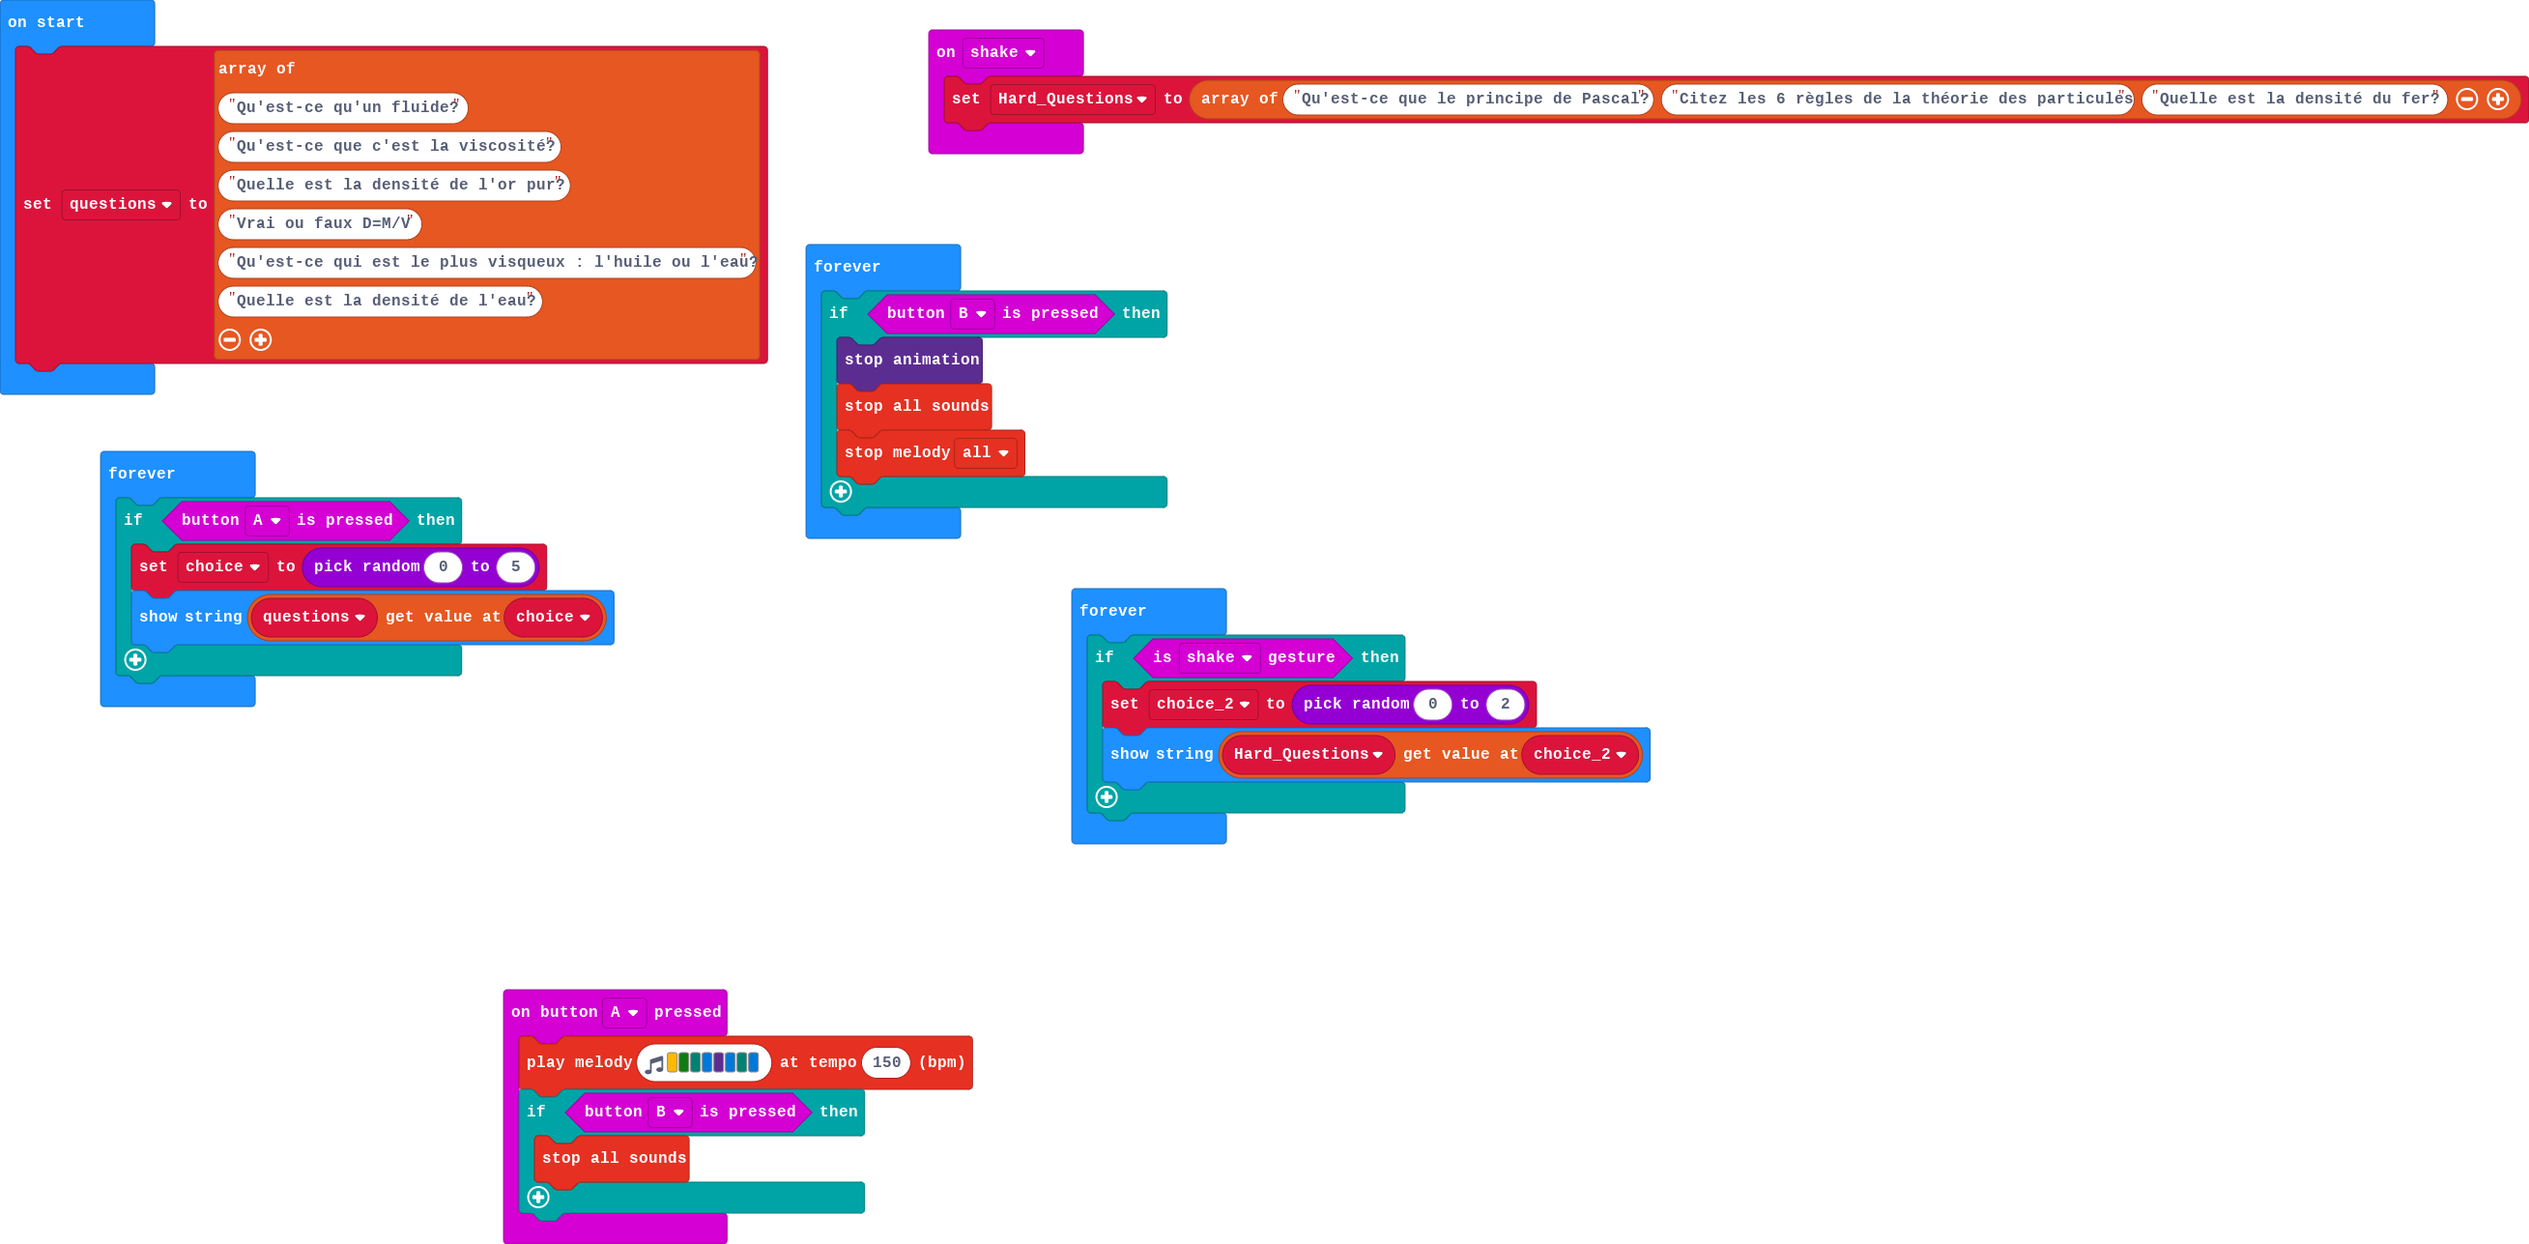
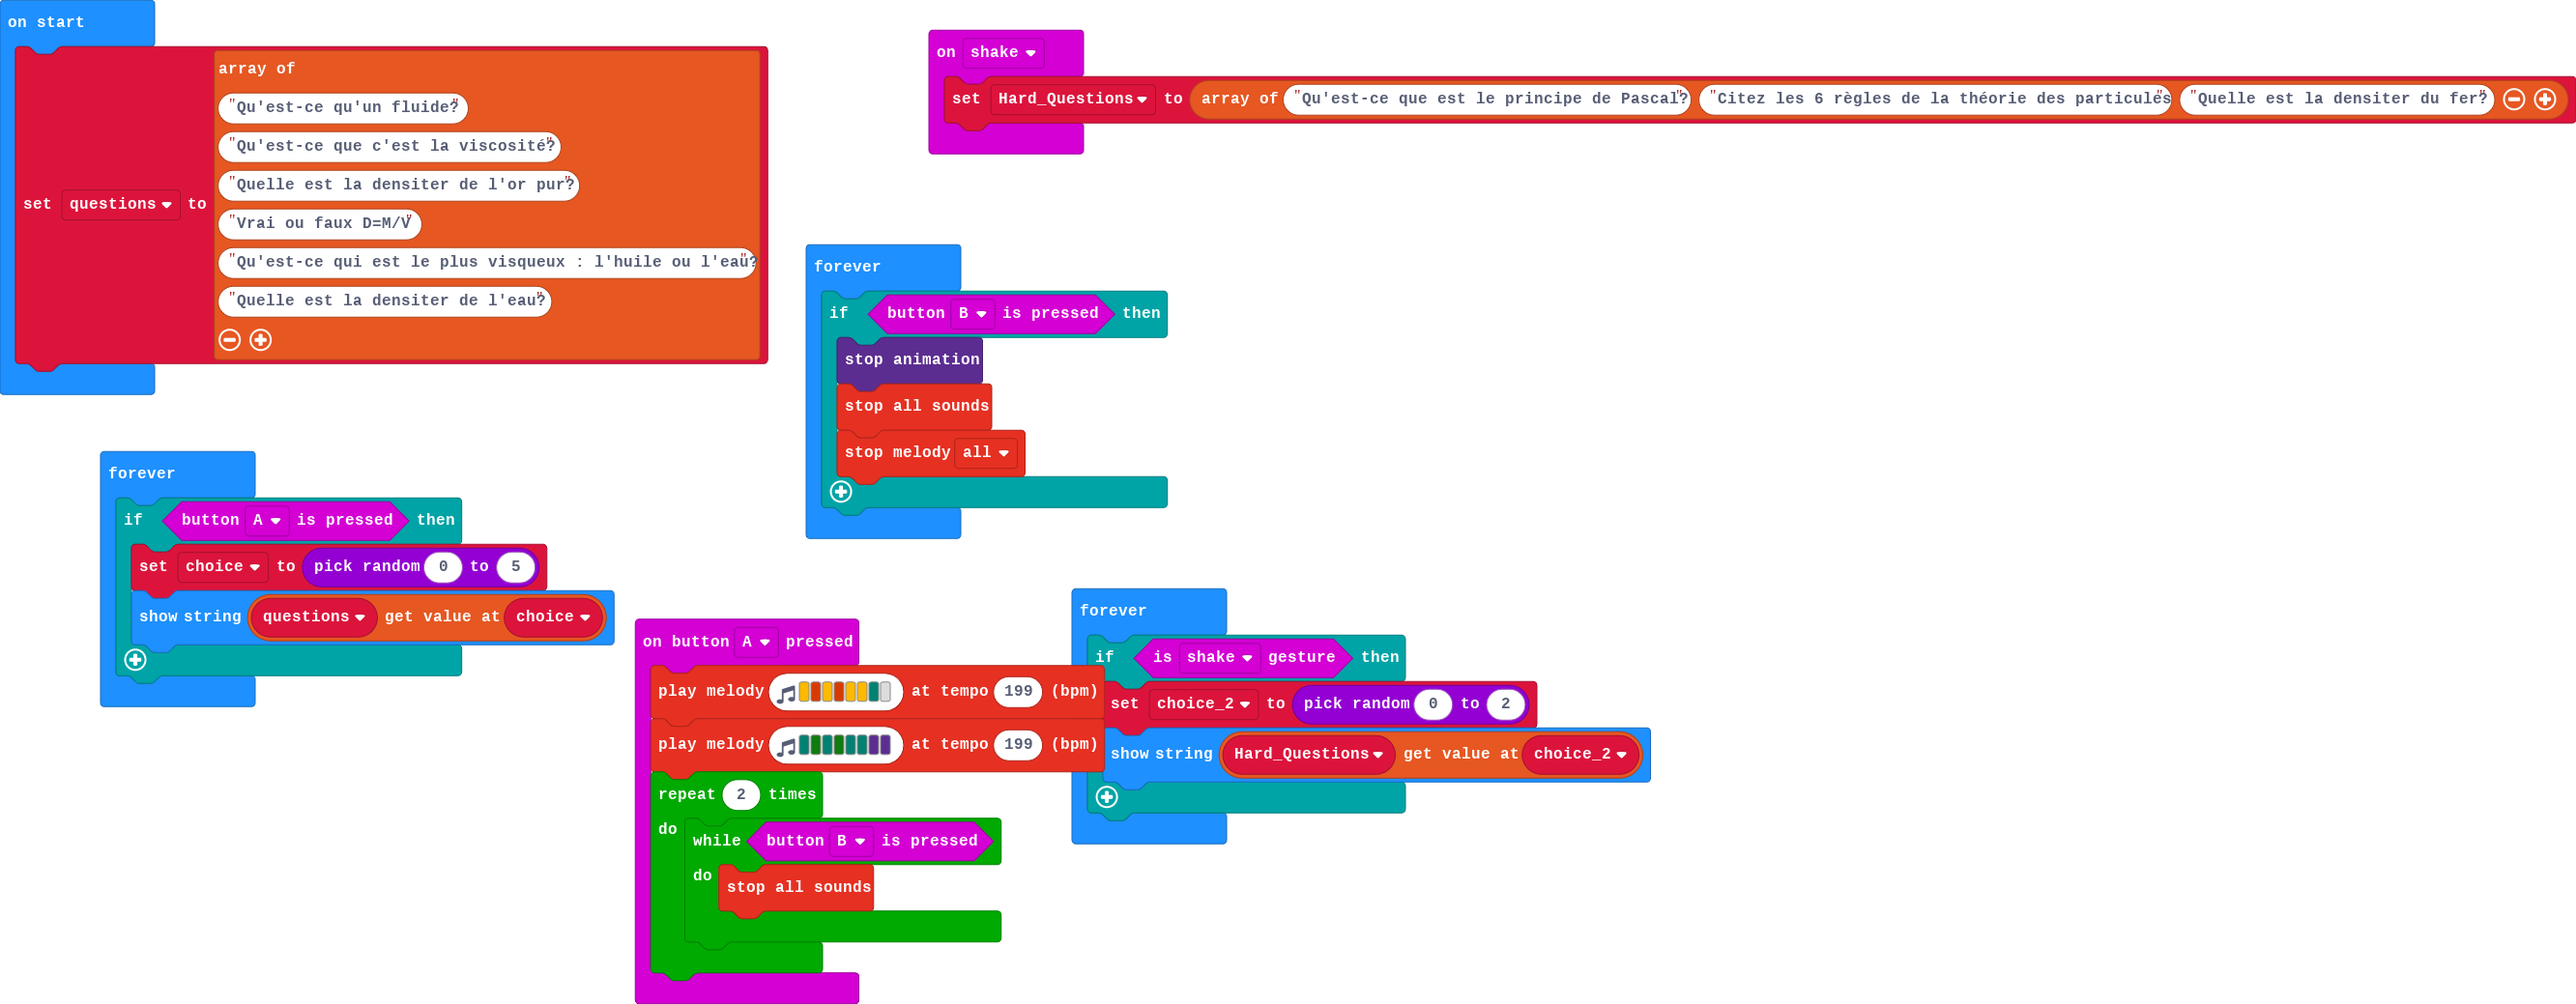
Update main.blocks, main.ts

Changed region(s): [[0.0, 0.0, 0.65, 1.0], [0.3405, 0.0, 1.0, 0.154]]

diff --git a/main.ts b/main.ts
@@ -1,11 +1,14 @@
 input.onButtonPressed(Button.A, function () {
-    music.playMelody("A G F E D E F E ", 150)
-    if (input.buttonIsPressed(Button.B)) {
-        music.stopAllSounds()
+    music.playMelody("A B A B A A F - ", 199)
+    music.playMelody("F G F G F F D D ", 199)
+    for (let index = 0; index < 2; index++) {
+        while (input.buttonIsPressed(Button.B)) {
+            music.stopAllSounds()
+        }
     }
 })
 input.onGesture(Gesture.Shake, function () {
-    Hard_Questions = ["Qu'est-ce que le principe de Pascal?", "Citez les 6 règles de la théorie des particules", "Quelle est la densité du fer?"]
+    Hard_Questions = ["Qu'est-ce que est le principe de Pascal?", "Citez les 6 règles de la théorie des particules", "Quelle est la densiter du fer?"]
 })
 let choice_2 = 0
 let choice = 0
@@ -13,10 +16,10 @@ let Hard_Questions: string[] = []
 let questions = [
 "Qu'est-ce qu'un fluide?",
 "Qu'est-ce que c'est la viscosité?",
-"Quelle est la densité de l'or pur?",
+"Quelle est la densiter de l'or pur?",
 "Vrai ou faux D=M/V",
 "Qu'est-ce qui est le plus visqueux : l'huile ou l'eau?",
-"Quelle est la densité de l'eau?"
+"Quelle est la densiter de l'eau?"
 ]
 basic.forever(function () {
     if (input.buttonIsPressed(Button.B)) {
